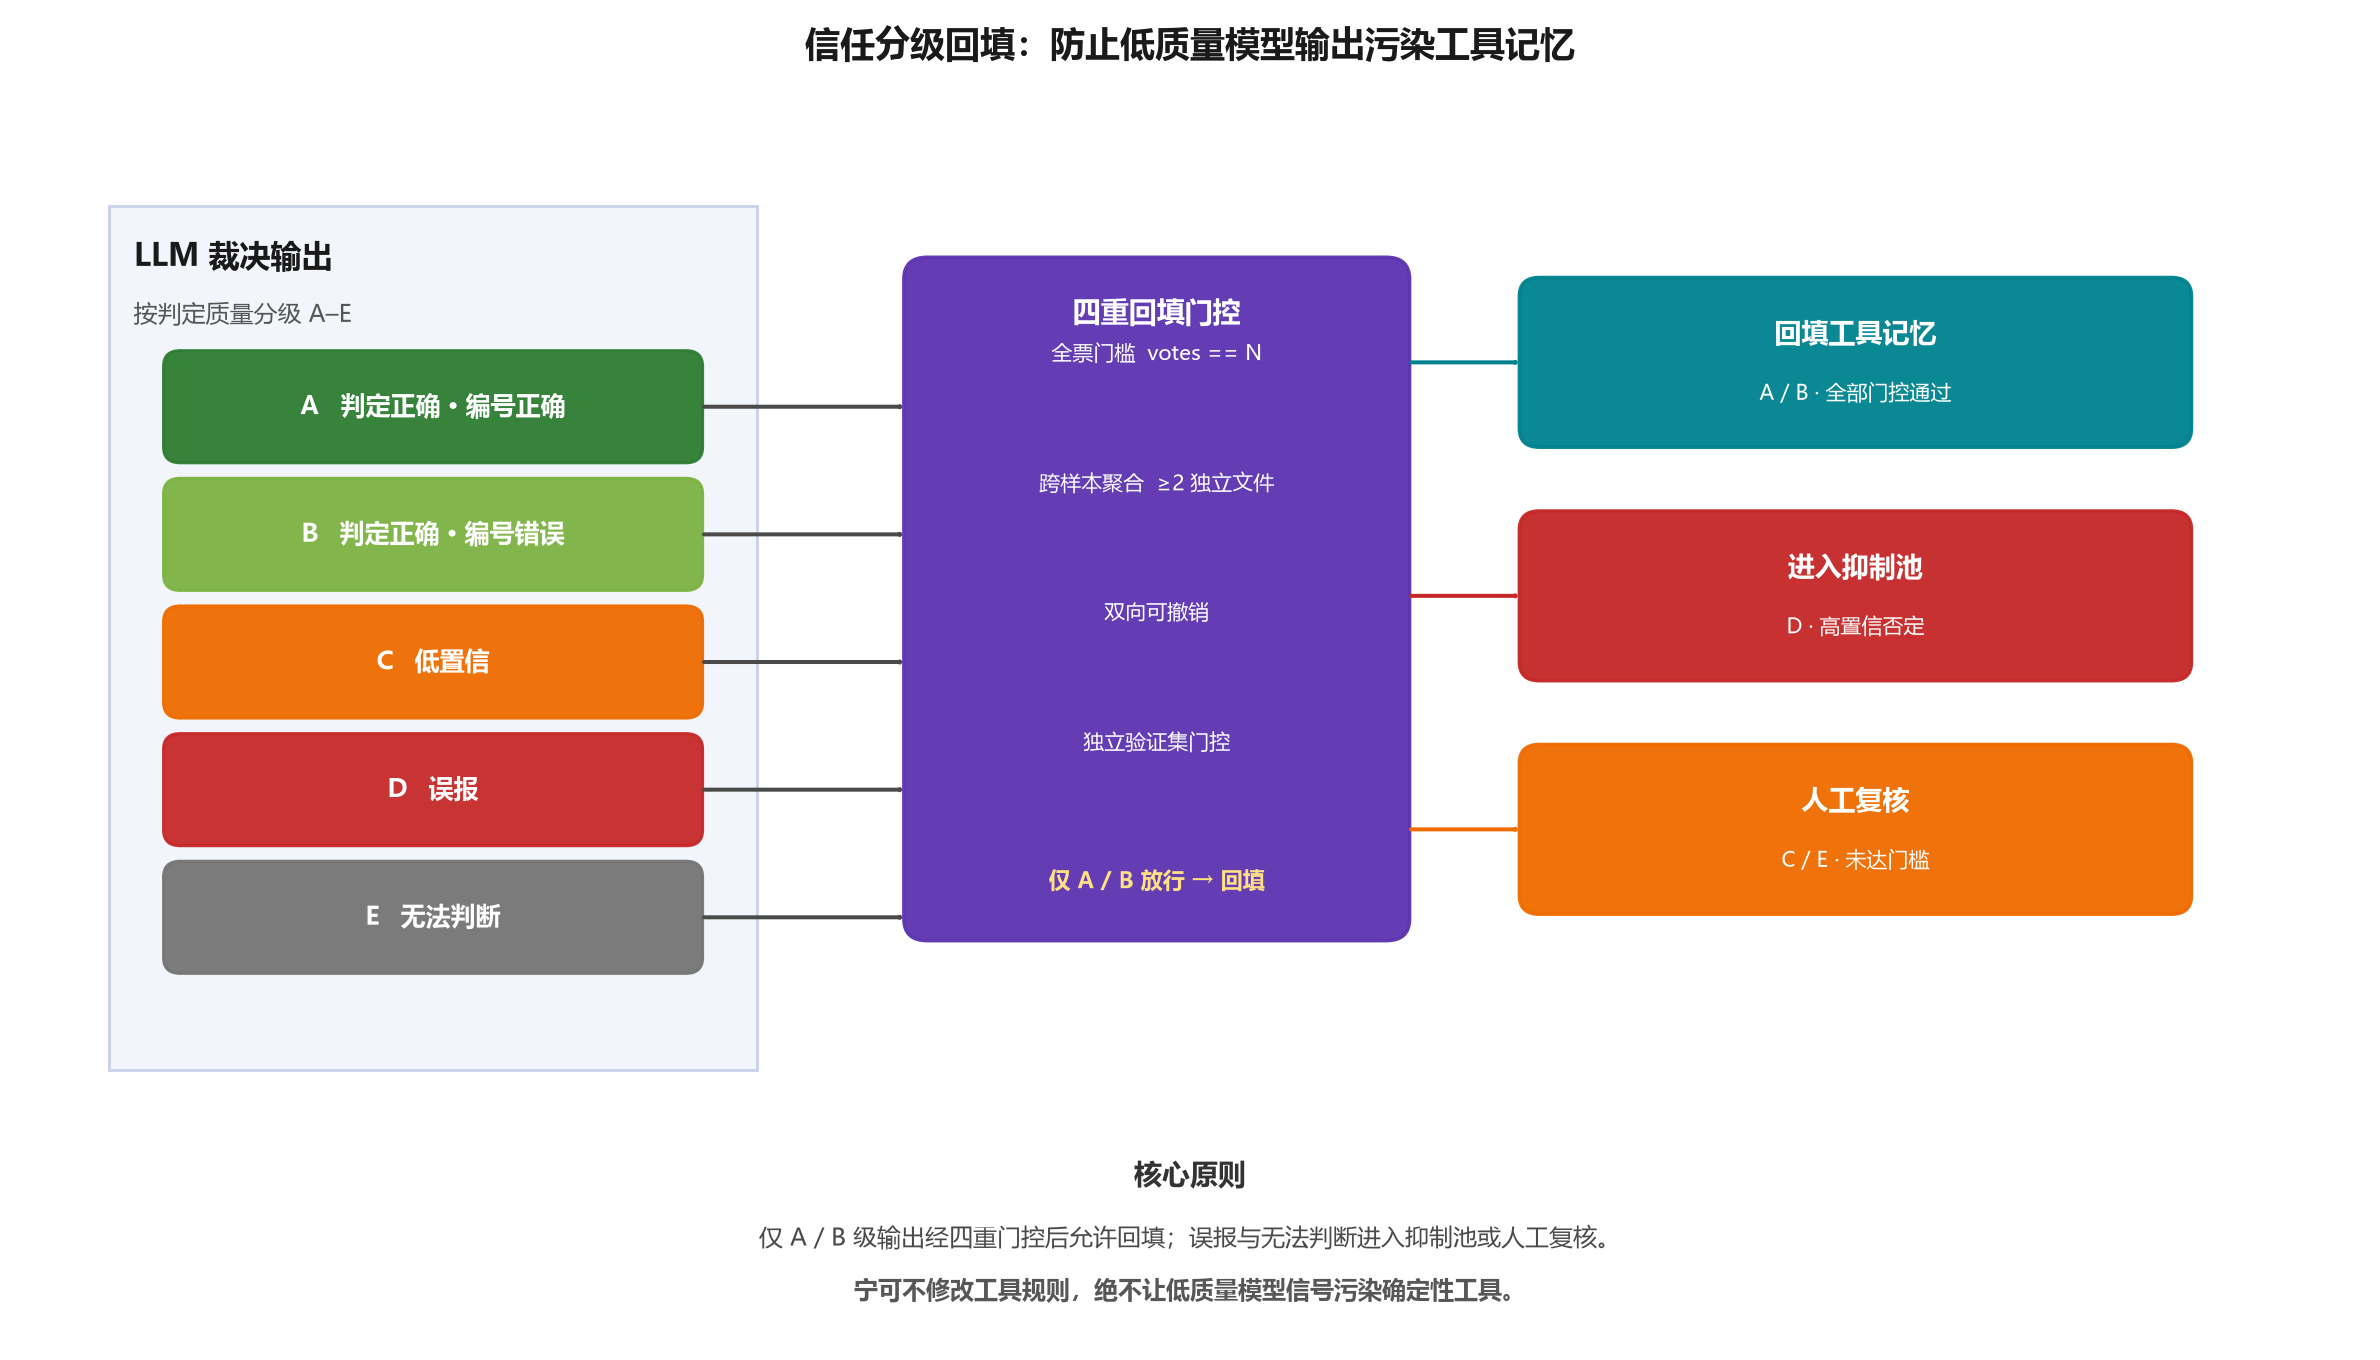
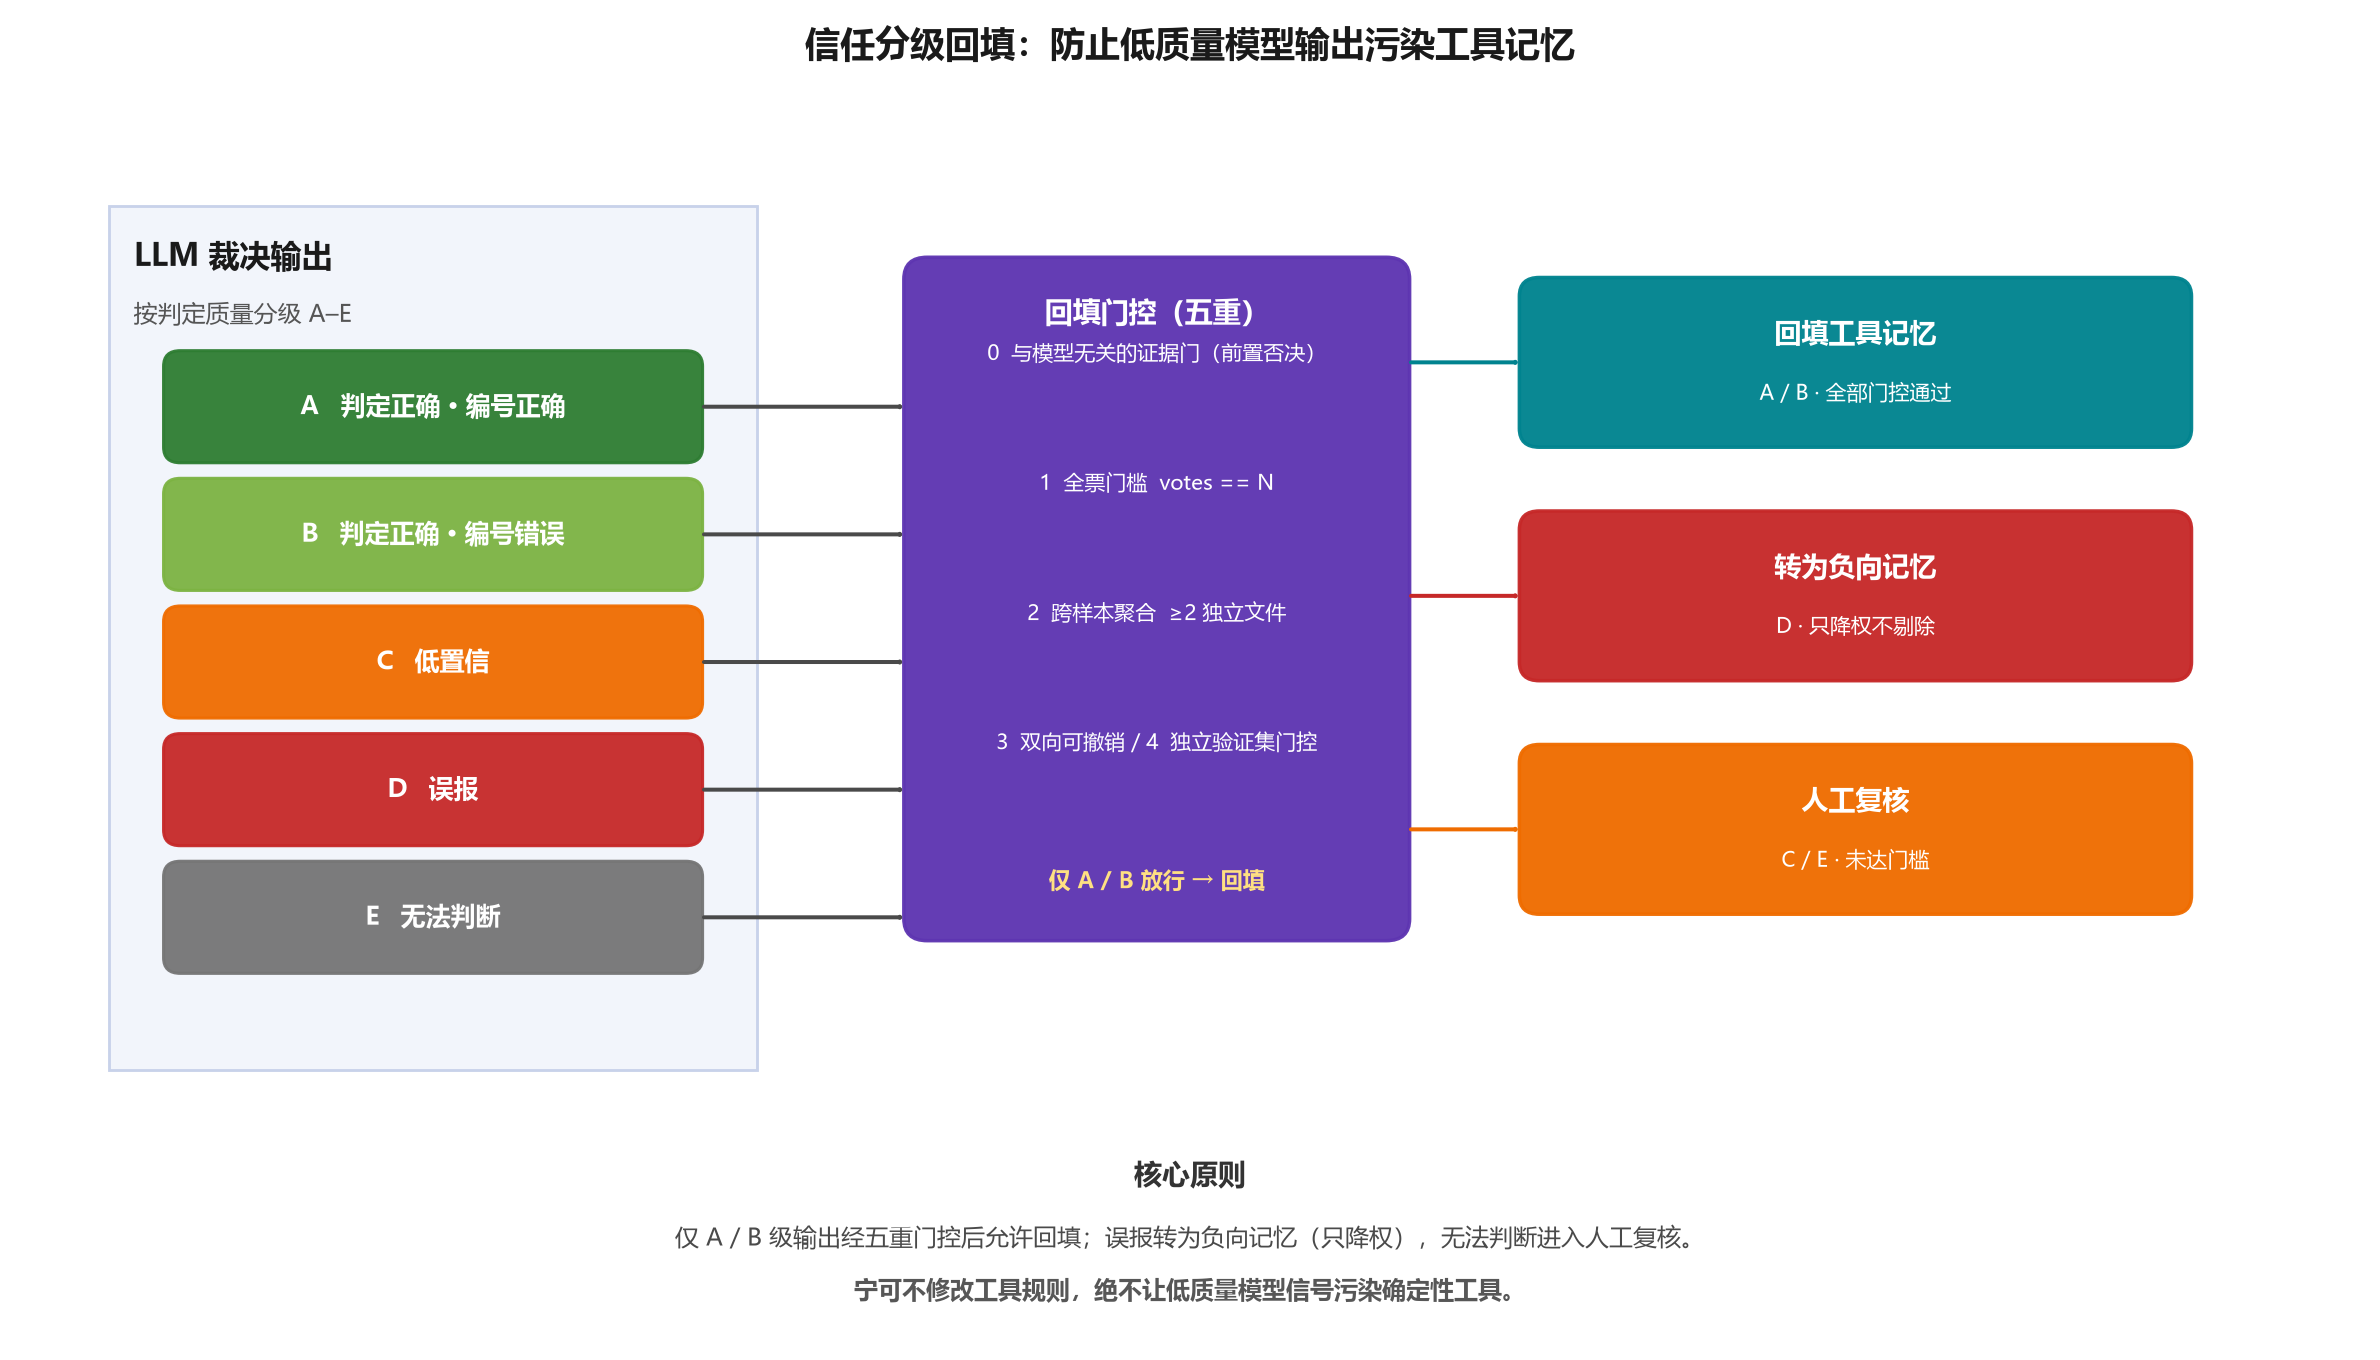
docs(省赛): 说明书正文与最新代码对齐（62 处修正，含四态语义 / 组态更正 / 共形诚实降级）
依据代码实测（HEAD bb543bd）+ 三份代码审查与策略评审的落地结果，把说明书稿从
2026-09-19 快照推进到与当前交付物一致。原则：数字与行为一律以代码为准。

事实性修正（6 项，含此前图文不一致）
- CWE 样本库 16 类 → 25 类（cwe.html 的 CWE_DATA 实测）
- GitHub 文件数上限「默认 20 / 硬上限 50」→ 网页端默认 20、接口默认 50、可调、上限 500
- 向量库集合名 vuln_knowledge → vulnerability_knowledge
- 补充危险模式 12 条 → 15 条
- 第三篇 3.5.3 平台支持矩阵按 0921 勘误版图重写（vLLM·ROCm/RTX50、HF·Windows
  RTX50、llama.cpp·Windows RTX50 四处此前与图不一致）
- 附录 B CLI 参数表按 vuln_scanner_cli.py 实测重排（--limit 默认 0、--max-files
  归 github、补 --language/--verbose/--ollama-url）

语义级修正（本批代码修复带来的新语义）
- 判定语义 三态 → 四态：新增「未复核（not_covered）」，由 review_coverage 字段
  承载；明确「未复核 ≠ 已确认安全」；评分中「需复核」与「未复核」均单列不扣分
- 无候选复核组态更正：生产所有入口默认统一为 targeted（原稿写单文件/GitHub 走
  full_recheck 已不成立）；full_recheck 仅 vLLM 与显式消融
- 工具-模型闭环三处结构性修正：写入时机改到最终结论确定之后；四重门控 → 五重
  （新增「与模型无关的证据门」前置否决）；抑制池 → 只降权的负向记忆（不改变召回面）
- 共形预测（Layer 1）诚实降级：校准文件为 in-sample 泄漏、已移出自动加载路径，
  生产处于未校准状态——正文不再宣称"90% 覆盖率保证"，改述为可扩展的统计门控接口，
  并说明 N=3 时自一致率仅 4 个取值、分辨率不足
- 其它：4.2.2 唯一边界 0.8（删 _CONF_MANUAL）；证据门补生效语言范围；防锚定补
  锚点来源分级（tool/model_vote）；在线漏报率改分层口径（随机层给率 + 区间、
  定向层只给命中率）；多模型投票平票改「转人工复核」；调度器补配额桶服务端化；
  GitHub 遍历补「遍历与预算分离」+ 导入期断言；下载工程补源白名单 + 8GB 上限 +
  代理环境变量并发原子性
- 新增 4.5.16.1「进程内推理的墙钟超时」（timeout 曾是无效参数 + 看门狗升为
  /api/health.degraded）；新增 4.6.6「已识别取舍与设计边界」6 条
- 第一篇 1.2.3 重写为三个第一性选择（判别优于生成 / 工具-模型闭环 / 如实表达
  不确定与没看过）；前置页术语表补 8 条正文代号（Nivis / fixed5 / wave8 /
  未复核 / 复核覆盖度 / 注意力预算 / 盲区提醒 / 自适应闭环）

叙事与排版
- 第三篇 3.1 去掉 ASCII 框图（与插图重复、PDF 中易错位），改「插图 + 文字主线」
- 全篇「抑制池」统一为「负向记忆（只降权）」
- 第六篇补拍要点新增匿名提示：终检脚本只查 PDF 文本、不查图片内容

图表与流水线
[…]

diff --git a/docs/论文/figures/gen_trust_graded_feedback.py b/docs/论文/figures/gen_trust_graded_feedback.py
@@ -105,17 +105,17 @@ for (g, desc, color), y in zip(grade_rows, chip_y):
     c = chip(ax, CX0, y, CW, 0.68, f"{g}   {desc}", color)
     grades.append((g, c, color))
 
-# ---------- 中栏：四重回填门控 ----------
-GATE = gate_box(ax, 5.3, 2.55, 3.0, 4.35, "四重回填门控",
-                ["全票门槛  votes == N",
-                 "跨样本聚合  ≥2 独立文件",
-                 "双向可撤销",
-                 "独立验证集门控"],
+# ---------- 中栏：回填门控（五重） ----------
+GATE = gate_box(ax, 5.3, 2.55, 3.0, 4.35, "回填门控（五重）",
+                ["0  与模型无关的证据门（前置否决）",
+                 "1  全票门槛  votes == N",
+                 "2  跨样本聚合  ≥2 独立文件",
+                 "3  双向可撤销 / 4  独立验证集门控"],
                 "仅 A / B 放行 → 回填")
 
 # ---------- 右栏：三个出口（文字垂直居中） ----------
 fb = out_box(ax, 9.0, 5.72, 4.0, 1.05, "回填工具记忆", "A / B · 全部门控通过", "#00838f")
-po = out_box(ax, 9.0, 4.22, 4.0, 1.05, "进入抑制池", "D · 高置信否定", "#c62828")
+po = out_box(ax, 9.0, 4.22, 4.0, 1.05, "转为负向记忆", "D · 只降权不剔除", "#c62828")
 rw = out_box(ax, 9.0, 2.72, 4.0, 1.05, "人工复核", "C / E · 未达门槛", "#ef6c00")
 
 # ---------- 连线（横平竖直，互不交叉） ----------
@@ -128,7 +128,7 @@ arr(ax, GATE["right"], rw["cy"], rw["left"], rw["cy"], color="#ef6c00")
 # ---------- 底部说明 ----------
 ax.text(7.0, 1.02, "核心原则", ha="center", va="center",
         fontsize=12, fontweight="bold", color="#333333")
-ax.text(7.0, 0.62, "仅 A / B 级输出经四重门控后允许回填；误报与无法判断进入抑制池或人工复核。",
+ax.text(7.0, 0.62, "仅 A / B 级输出经五重门控后允许回填；误报转为负向记忆（只降权），无法判断进入人工复核。",
         ha="center", va="center", fontsize=10, color="#4a4a4a")
 ax.text(7.0, 0.28, "宁可不修改工具规则，绝不让低质量模型信号污染确定性工具。",
         ha="center", va="center", fontsize=10, fontweight="bold", color="#575757")
